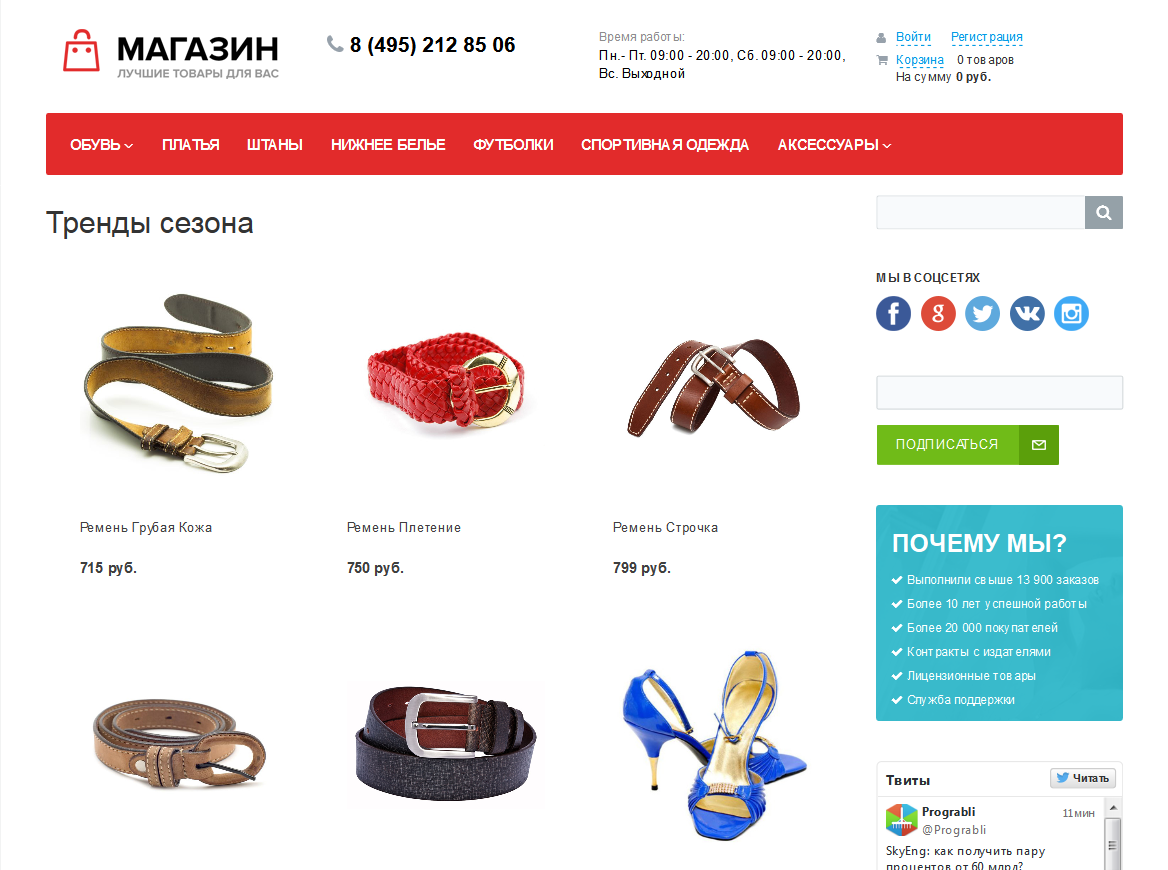
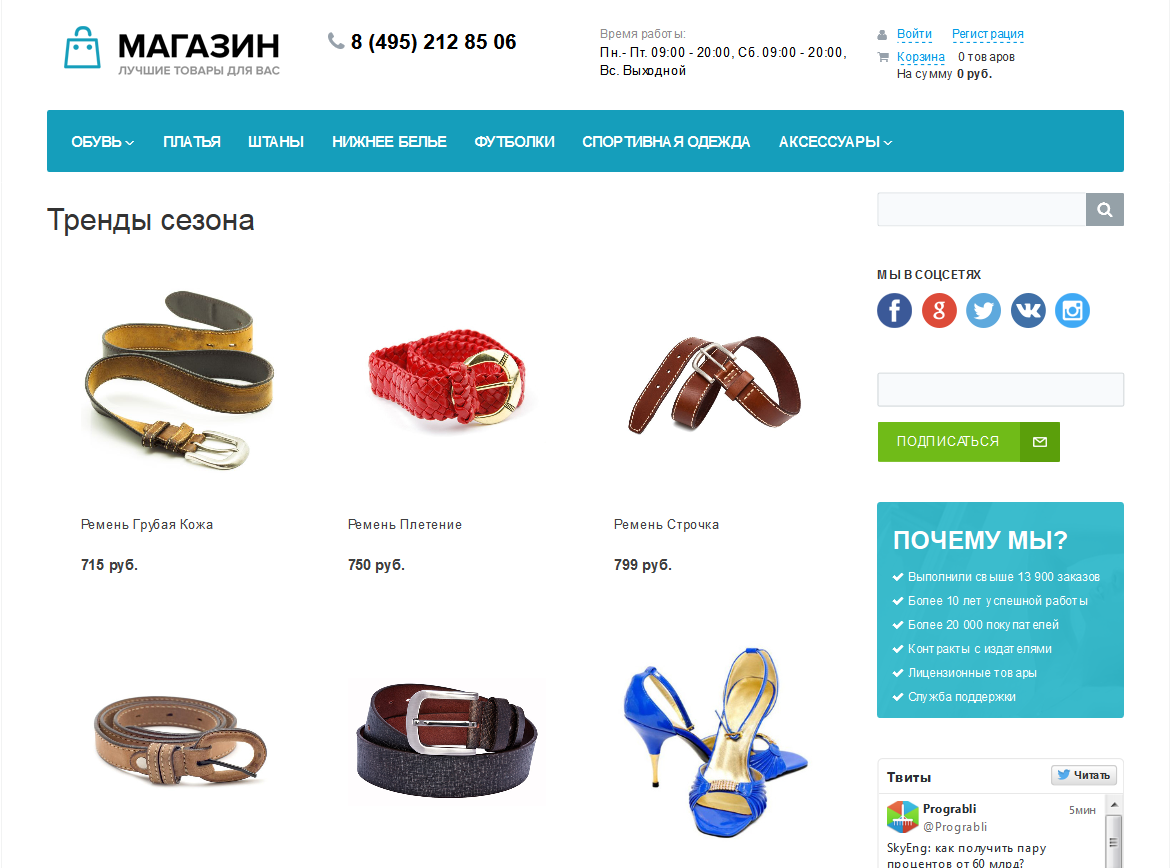
modifed

diff --git a/bitrix/templates/eshop_bootstrap_v4/colors.css b/bitrix/templates/eshop_bootstrap_v4/colors.css
@@ -1,43 +1,50 @@
-@media (max-width: 767px){body.bx-theme-red .bx-logo{background: #E22B2B;}}
-body.bx-background-gradient{
-	background: rgb(250,244,244);
[1 lines of base64/hex data omitted]
-	background: -moz-linear-gradient(top, rgba(250,244,244,1) 0%, rgba(255,255,255,1) 100%);
-	background: -webkit-gradient(linear, left top, left bottom, color-stop(0%,rgba(250,244,244,1)), color-stop(100%,rgba(255,255,255,1)));
-	background: -webkit-linear-gradient(top, rgba(250,244,244,1) 0%,rgba(255,255,255,1) 100%);
-	background: -o-linear-gradient(top, rgba(250,244,244,1) 0%,rgba(255,255,255,1) 100%);
-	background: -ms-linear-gradient(top, rgba(250,244,244,1) 0%,rgba(255,255,255,1) 100%);
-	background: linear-gradient(to bottom, rgba(250,244,244,1) 0%,rgba(255,255,255,1) 100%);
-	filter: progid:DXImageTransform.Microsoft.gradient( startColorstr='#faf4f4', endColorstr='#ffffff',GradientType=0 );
-	background-attachment: fixed;
+@media (max-width: 767px) {
+	body.bx-theme-green .bx-logo { background: #33b111; }
 }
-.bx-logo-text small {color: #E22B2B;}
+
+body.bx-background-gradient {
+	background: rgb(245, 250, 253);
[1 lines of base64/hex data omitted]
+	background: -moz-linear-gradient(top, rgba(245, 250, 253, 1) 0%, rgba(255, 255, 255, 1) 100%);
+	background: -webkit-gradient(linear, left top, left bottom, color-stop(0%, rgba(245, 250, 253, 1)), color-stop(100%, rgba(255, 255, 255, 1)));
+	background: -webkit-linear-gradient(top, rgba(245, 250, 253, 1) 0%, rgba(255, 255, 255, 1) 100%);
+	background: -o-linear-gradient(top, rgba(245, 250, 253, 1) 0%, rgba(255, 255, 255, 1) 100%);
+	background: -ms-linear-gradient(top, rgba(245, 250, 253, 1) 0%, rgba(255, 255, 255, 1) 100%);
+	background: linear-gradient(to bottom, rgba(245, 250, 253, 1) 0%, rgba(255, 255, 255, 1) 100%);
+	background-attachment: fixed;
+	filter: progid:DXImageTransform.Microsoft.gradient(startColorstr='#f5fafd', endColorstr='#ffffff', GradientType=0);
+}
+
+.bx-logo-text small { color: #33b111; }
 
 /* news.list.sidebar */
-body.bx-theme-red .bx-s-info-titleicon{background: #E22B2B;}
+body.bx-theme-green .bx-s-info-titleicon { background: #33b111; }
 
 /*ABOUT*/
-a.bxd-block:hover {border-color: #E22B2B;}
-.bxd-icon {border: 1px solid #E22B2B;}
-a.bxd-block:hover .bxd-icon {background: #E22B2B;}
-.bxd-icon .fa {color: #E22B2B;}
-a.bxd-block:hover .bxd-icon .fa {color: #fff;}
+a.bxd-block:hover { border-color: #28a906; }
+
+.bxd-icon { border: 1px solid #28a906; }
+
+a.bxd-block:hover .bxd-icon { background: #28a906; }
+
+a.bxd-block:hover .bxd-icon .fa { color: #fff; }
 
 /* BTN */
-.bx-theme-red .btn.btn-default {
+.bx-theme-green .btn.btn-default {
 	outline: none;
-	background-color: #da3737;
-	border-color: #da3737;
-	color: #FFF;
+	border-color: #3bc915;
+	background-color: #3bc915;
+	color: #fff;
 }
-.bx-theme-red .btn.btn-default:hover {
+
+.bx-theme-green .btn.btn-default:hover {
 	outline: none;
-	background-color: #e48d8d;
-	border-color: #e48d8d;
-	color: #FFF;
+	border-color: #3bc915;
+	background-color: #3bc915;
+	color: #fff;
 }
-.bx-theme-red .btn.btn-default:active {
+
+.bx-theme-green .btn.btn-default:active {
 	outline: none;
-	-webkit-box-shadow: inset 0 3px 5px rgba(0,0,0,.125);
-	box-shadow: inset 0 3px 5px rgba(0,0,0,.125);
+	box-shadow: inset 0 3px 5px rgba(0, 0, 0, .125);
 }

diff --git a/bitrix/templates/eshop_bootstrap_v4/colors.min.css b/bitrix/templates/eshop_bootstrap_v4/colors.min.css
@@ -1,1 +1,1 @@
[2 lines of base64/hex data omitted]

diff --git a/bitrix/templates/eshop_bootstrap_v4/header.php b/bitrix/templates/eshop_bootstrap_v4/header.php
@@ -81,7 +81,7 @@ $curPage = $APPLICATION->GetCurPage(true);
 
 				<div class="col bx-header-contact">
 					<div class="d-flex align-items-center justify-content-between justify-content-md-center flex-column flex-sm-row flex-md-column flex-lg-row">
-						<div class="p-lg-3 p-1">
+						<div class="p-md-2 p-1">
 							<div class="bx-header-phone-block">
 								<i class="bx-header-phone-icon"></i>
 								<span class="bx-header-phone-number">
@@ -97,7 +97,7 @@ $curPage = $APPLICATION->GetCurPage(true);
 								</span>
 							</div>
 						</div>
-						<div class="p-lg-3 p-1">
+						<div class="p-md-1 p-2">
 							<div class="bx-header-worktime">
 								<div class="bx-worktime-title"><?=GetMessage('HEADER_WORK_TIME'); ?></div>
 								<div class="bx-worktime-schedule">
@@ -113,9 +113,24 @@ $curPage = $APPLICATION->GetCurPage(true);
 								</div>
 							</div>
 						</div>
+							<div class="p-md-1 p-3">
+							<div class="bx-header-worktime">
+								<p>
+									<?$APPLICATION->IncludeComponent(
+										"bitrix:main.include",
+										"",
+										array(
+											"AREA_FILE_SHOW" => "file",
+											"PATH" => SITE_DIR."include/testproj.php"
+										),
+										false
+									);?>
+						</div>
 					</div>
+					</div>
+
 				</div>
-			</div>
+			
 			<!--endregion-->
 
 			<!--region menu-->

diff --git a/bitrix/templates/eshop_bootstrap_v4/footer.php b/bitrix/templates/eshop_bootstrap_v4/footer.php
@@ -129,6 +129,20 @@
 							);?>
 						</div>
 						<div id="bx-composite-banner" style="padding-top: 20px"></div>
+							<div class="p-md-1 p-3">
+							<div class="bx-header-worktime">
+								<p class="text-white">
+									<?$APPLICATION->IncludeComponent(
+										"bitrix:main.include",
+										"",
+										array(
+											"AREA_FILE_SHOW" => "file",
+											"PATH" => SITE_DIR."include/helloworld.php"
+										),
+										false
+									);?>
+						</div>
+					</div>
 					</div>
 					<div class="col-sm-6 col-lg-3 order-lg-1 order-4">
 						<div class="mb-3">

diff --git a/bitrix/templates/eshop_bootstrap_v4/description.php b/bitrix/templates/eshop_bootstrap_v4/description.php
@@ -1,4 +1,8 @@
-<?if (!defined("B_PROLOG_INCLUDED") || B_PROLOG_INCLUDED!==true)die();
-$arTemplate = Array(
-	"NAME"=>GetMessage("CSST_TEMPLATE_NAME")
-);?>
+<?
+$arTemplate = array (
+  'NAME' => 'Адаптивный шаблон интернет-магазина',
+  'DESCRIPTION' => '',
+  'SORT' => '',
+  'TYPE' => '',
+);
+?>

diff --git a/site_gf/index.php b/site_gf/index.php
@@ -1,0 +1,1 @@
+<?define("B_PROLOG_INCLUDED", true);define("WIZARD_DEFAULT_SITE_ID", "gf");define("WIZARD_DEFAULT_TONLY", true);define("PRE_LANGUAGE_ID","ru");define("PRE_INSTALL_CHARSET","UTF-8");include_once($_SERVER["DOCUMENT_ROOT"]."/bitrix/modules/main/install/wizard/wizard.php");?>

diff --git a/include/schedule.php b/include/schedule.php
@@ -1,1 +1,9 @@
-Пн-Вс 10-19
+Пн-Вс 10-19<?$APPLICATION->IncludeComponent(
+	"bitrix:main.include",
+	"",
+	Array(
+		"AREA_FILE_SHOW" => "page",
+		"AREA_FILE_SUFFIX" => "inc",
+		"EDIT_TEMPLATE" => ""
+	)
+);?>

diff --git a/bitrix/templates/eshop_bootstrap_v4/.styles.php b/bitrix/templates/eshop_bootstrap_v4/.styles.php
@@ -1,4 +1,3 @@
-<?php
-if (!defined("B_PROLOG_INCLUDED") || B_PROLOG_INCLUDED!==true) die();
-
+<?
 return false;
+?>

diff --git a/include/helloworld.php b/include/helloworld.php
@@ -1,0 +1,1 @@
+<span style="color: #ffffff;">Привет,мир</span>
